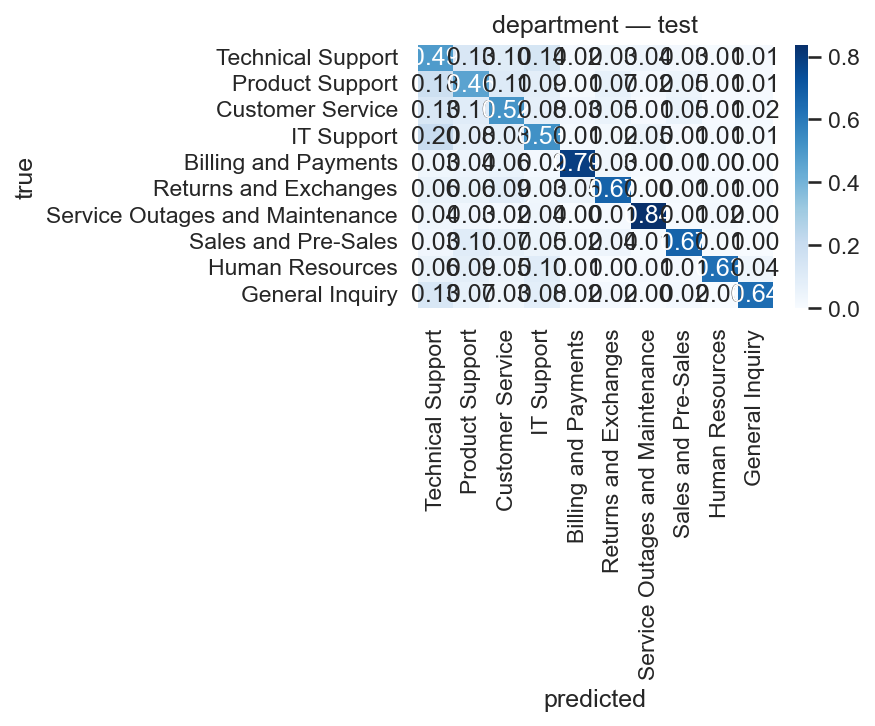
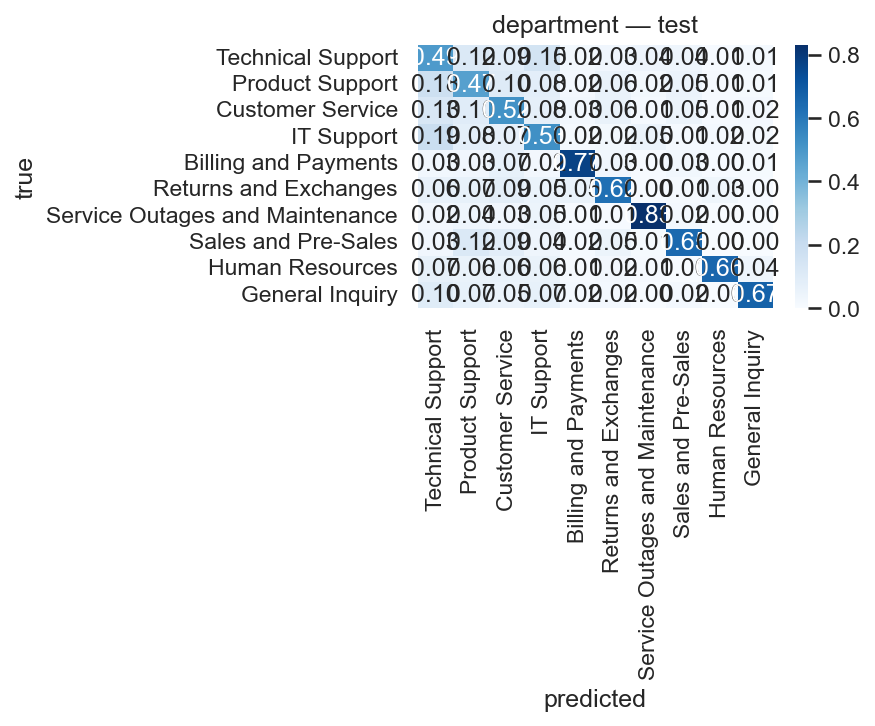
Add data pipeline and BERT classifier

diff --git a/scripts/train_classifier_bert.py b/scripts/train_classifier_bert.py
@@ -1,0 +1,92 @@
+"""Fine-tune DistilBERT for priority and department classification.
+
+Usage:
+    python scripts/train_classifier_bert.py
+    python scripts/train_classifier_bert.py --epochs 2 --batch 16
+"""
+from __future__ import annotations
+
+import argparse
+import sys
+from pathlib import Path
+
+ROOT = Path(__file__).resolve().parents[1]
+sys.path.insert(0, str(ROOT))
+
+import matplotlib.pyplot as plt
+import pandas as pd
+import seaborn as sns
+from sklearn.metrics import confusion_matrix
+
+from src import config
+from src.classification.evaluate import eval_classifier
+from src.classification.transformer_clf import train_bert, predict_bert
+from src.utils import io as uio
+from src.utils.plotting import save_fig
+from src.utils.seeds import set_seed
+
+
+def main(epochs, batch, lr):
+    set_seed(config.SEED)
+
+    train = uio.load_df(config.DATA_PROCESSED / "train.csv")
+    val   = uio.load_df(config.DATA_PROCESSED / "val.csv")
+    test  = uio.load_df(config.DATA_PROCESSED / "test.csv")
+
+    targets = {
+        "priority":   ("priority", config.PRIORITIES),
+        "department": ("queue",    config.DEPARTMENTS),
+    }
+
+    all_summaries = []
+
+    for target_name, (col, labels) in targets.items():
+        print(f"\n=== BERT — {target_name} ===")
+
+        model, tokenizer, id2label = train_bert(
+            train["ticket"].tolist(),
+            train[col].tolist(),
+            epochs=epochs, batch_size=batch, lr=lr, seed=config.SEED,
+        )
+
+        out_tables = config.TABLES  / "classification_bert" / target_name
+        out_figs   = config.FIGURES / "classification_bert"
+        out_tables.mkdir(parents=True, exist_ok=True)
+        out_figs.mkdir(parents=True, exist_ok=True)
+
+        for split_name, df in [("val", val), ("test", test)]:
+            preds = predict_bert(model, tokenizer, id2label, df["ticket"].tolist(), batch_size=batch)
+
+            summary = eval_classifier(df[col].tolist(), preds, labels, out_dir=out_tables, name=split_name)
+            summary["target"] = target_name
+            summary["split"]  = split_name
+            all_summaries.append(summary)
+
+            # confusion matrix plot
+            cm = confusion_matrix(df[col].tolist(), preds, labels=labels, normalize="true")
+            fig, ax = plt.subplots(figsize=(max(6, 0.5 * len(labels)), max(5, 0.5 * len(labels))))
+            sns.heatmap(cm, annot=True, fmt=".2f", cmap="Blues", xticklabels=labels, yticklabels=labels, ax=ax)
+            ax.set_xlabel("predicted"); ax.set_ylabel("true")
+            ax.set_title(f"BERT {target_name} — {split_name}")
+            save_fig(fig, out_figs / f"{target_name}_{split_name}_confusion.png")
+
+            pred_df = df[["id", col]].copy().rename(columns={col: "true"})
+            pred_df["pred"] = preds
+            uio.save_df(pred_df, config.GENERATIONS / f"bert_clf_{target_name}_{split_name}.parquet")
+
+        model.save_pretrained(config.MODELS / f"bert_{target_name}")
+        tokenizer.save_pretrained(config.MODELS / f"bert_{target_name}")
+
+    summary_df = pd.DataFrame(all_summaries)
+    uio.save_df(summary_df, config.TABLES / "classification_bert" / "summary.csv")
+    print("\n--- results ---")
+    print(summary_df.to_string(index=False))
+
+
+if __name__ == "__main__":
+    parser = argparse.ArgumentParser()
+    parser.add_argument("--epochs", type=int,   default=3)
+    parser.add_argument("--batch",  type=int,   default=32)
+    parser.add_argument("--lr",     type=float, default=2e-5)
+    args = parser.parse_args()
+    main(args.epochs, args.batch, args.lr)

diff --git a/src/classification/transformer_clf.py b/src/classification/transformer_clf.py
@@ -1,0 +1,74 @@
+"""DistilBERT fine-tuning helpers — plain functions, no classes."""
+from __future__ import annotations
+
+import numpy as np
+import torch
+from torch.utils.data import DataLoader, TensorDataset
+from transformers import AutoModelForSequenceClassification, AutoTokenizer, get_linear_schedule_with_warmup
+
+
+def tokenize(texts: list[str], tokenizer, max_len: int = 128) -> dict:
+    return tokenizer(texts, padding="max_length", truncation=True, max_length=max_len, return_tensors="pt")
+
+
+def train_bert(
+    train_texts: list[str],
+    train_labels: list[str],
+    model_name: str = "distilbert-base-uncased",
+    max_len: int = 128,
+    batch_size: int = 32,
+    epochs: int = 3,
+    lr: float = 2e-5,
+    seed: int = 42,
+):
+    torch.manual_seed(seed)
+    device = "cuda" if torch.cuda.is_available() else "cpu"
+
+    label_list = sorted(set(train_labels))
+    label2id = {l: i for i, l in enumerate(label_list)}
+    id2label = {i: l for l, i in label2id.items()}
+    int_labels = [label2id[l] for l in train_labels]
+
+    tokenizer = AutoTokenizer.from_pretrained(model_name)
+    enc = tokenize(train_texts, tokenizer, max_len)
+    dataset = TensorDataset(enc["input_ids"], enc["attention_mask"], torch.tensor(int_labels))
+    loader = DataLoader(dataset, batch_size=batch_size, shuffle=True)
+
+    model = AutoModelForSequenceClassification.from_pretrained(
+        model_name, num_labels=len(label_list), id2label=id2label, label2id=label2id
+    ).to(device)
+
+    optimizer = torch.optim.AdamW(model.parameters(), lr=lr, weight_decay=0.01)
+    total_steps = len(loader) * epochs
+    scheduler = get_linear_schedule_with_warmup(optimizer, int(0.1 * total_steps), total_steps)
+
+    model.train()
+    for epoch in range(epochs):
+        total_loss = 0.0
+        for input_ids, attention_mask, labels in loader:
+            input_ids, attention_mask, labels = input_ids.to(device), attention_mask.to(device), labels.to(device)
+            optimizer.zero_grad()
+            loss = model(input_ids=input_ids, attention_mask=attention_mask, labels=labels).loss
+            loss.backward()
+            torch.nn.utils.clip_grad_norm_(model.parameters(), 1.0)
+            optimizer.step()
+            scheduler.step()
+            total_loss += loss.item()
+        print(f"  epoch {epoch + 1}/{epochs}  loss={total_loss / len(loader):.4f}")
+
+    return model, tokenizer, id2label
+
+
+def predict_bert(model, tokenizer, id2label: dict, texts: list[str], max_len: int = 128, batch_size: int = 32) -> list[str]:
+    device = next(model.parameters()).device
+    enc = tokenize(texts, tokenizer, max_len)
+    dataset = TensorDataset(enc["input_ids"], enc["attention_mask"])
+    loader = DataLoader(dataset, batch_size=batch_size, shuffle=False)
+
+    model.eval()
+    preds = []
+    with torch.no_grad():
+        for input_ids, attention_mask in loader:
+            logits = model(input_ids=input_ids.to(device), attention_mask=attention_mask.to(device)).logits
+            preds.extend(logits.argmax(dim=-1).cpu().tolist())
+    return [id2label[i] for i in preds]

diff --git a/scripts/train_generator.py b/scripts/train_generator.py
@@ -42,9 +42,9 @@ def _save(df: pd.DataFrame, preds, model_name: str, split: str) -> pd.DataFrame:
 
 def main() -> None:
     set_seed(config.SEED)
-    train = uio.load_df(config.DATA_PROCESSED / "train.parquet")
-    val = uio.load_df(config.DATA_PROCESSED / "val.parquet")
-    test = uio.load_df(config.DATA_PROCESSED / "test.parquet")
+    train = uio.load_df(config.DATA_PROCESSED / "train.csv")
+    val = uio.load_df(config.DATA_PROCESSED / "val.csv")
+    test = uio.load_df(config.DATA_PROCESSED / "test.csv")
 
     # --- constant --------------------------------------------------------------
     const = ConstantResponder().fit(train["ticket"], train["answer"])

diff --git a/scripts/prepare_data.py b/scripts/prepare_data.py
@@ -23,12 +23,12 @@ def main() -> None:
 
     summary = {"total": int(len(df))}
     for name, part in splits.items():
-        path = config.DATA_PROCESSED / f"{name}.parquet"
+        path = config.DATA_PROCESSED / f"{name}.csv"
         uio.save_df(part, path)
         summary[name] = int(len(part))
         print(f"[prepare_data] wrote {path} rows={len(part)}")
 
-    uio.save_df(df, config.DATA_PROCESSED / "full.parquet")
+    uio.save_df(df, config.DATA_PROCESSED / "full.csv")
     uio.save_json(summary, config.DATA_PROCESSED / "split_summary.json")
     print(f"[prepare_data] summary={summary}")
 

diff --git a/scripts/train_classifier.py b/scripts/train_classifier.py
@@ -42,9 +42,9 @@ def _confusion_fig(y_true, y_pred, labels, title, path):
 
 def main() -> None:
     set_seed(config.SEED)
-    train = uio.load_df(config.DATA_PROCESSED / "train.parquet")
-    val = uio.load_df(config.DATA_PROCESSED / "val.parquet")
-    test = uio.load_df(config.DATA_PROCESSED / "test.parquet")
+    train = uio.load_df(config.DATA_PROCESSED / "train.csv")
+    val = uio.load_df(config.DATA_PROCESSED / "val.csv")
+    test = uio.load_df(config.DATA_PROCESSED / "test.csv")
 
     clf_out_dir = config.TABLES / "classification"
     clf_fig_dir = config.FIGURES / "classification"

diff --git a/scripts/run_eda.py b/scripts/run_eda.py
@@ -28,7 +28,7 @@ def _count_tokens(series: pd.Series) -> pd.Series:
 
 
 def main() -> None:
-    df = uio.load_df(config.DATA_PROCESSED / "full.parquet")
+    df = uio.load_df(config.DATA_PROCESSED / "full.csv")
     print(f"[eda] rows={len(df)}")
 
     # --- 1. class distributions ------------------------------------------------
